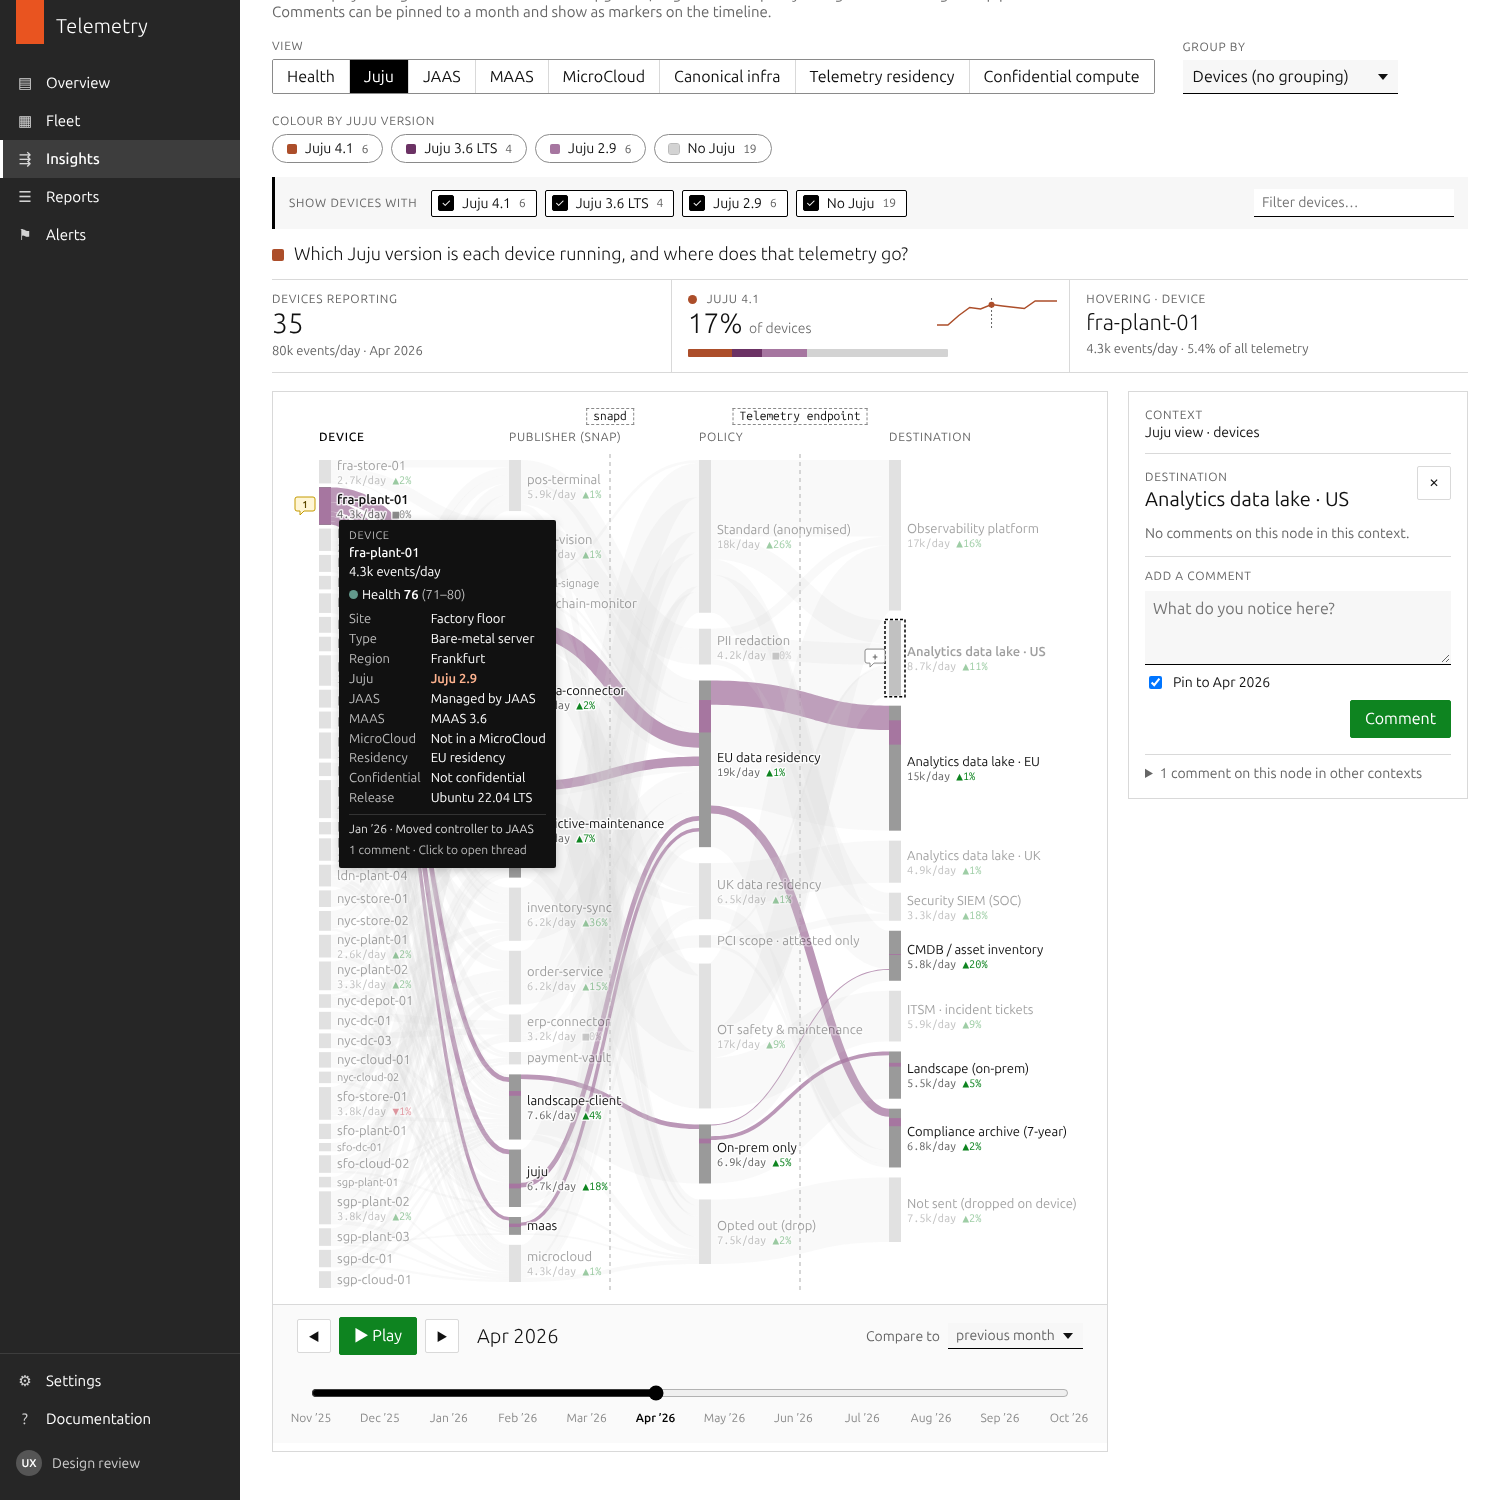
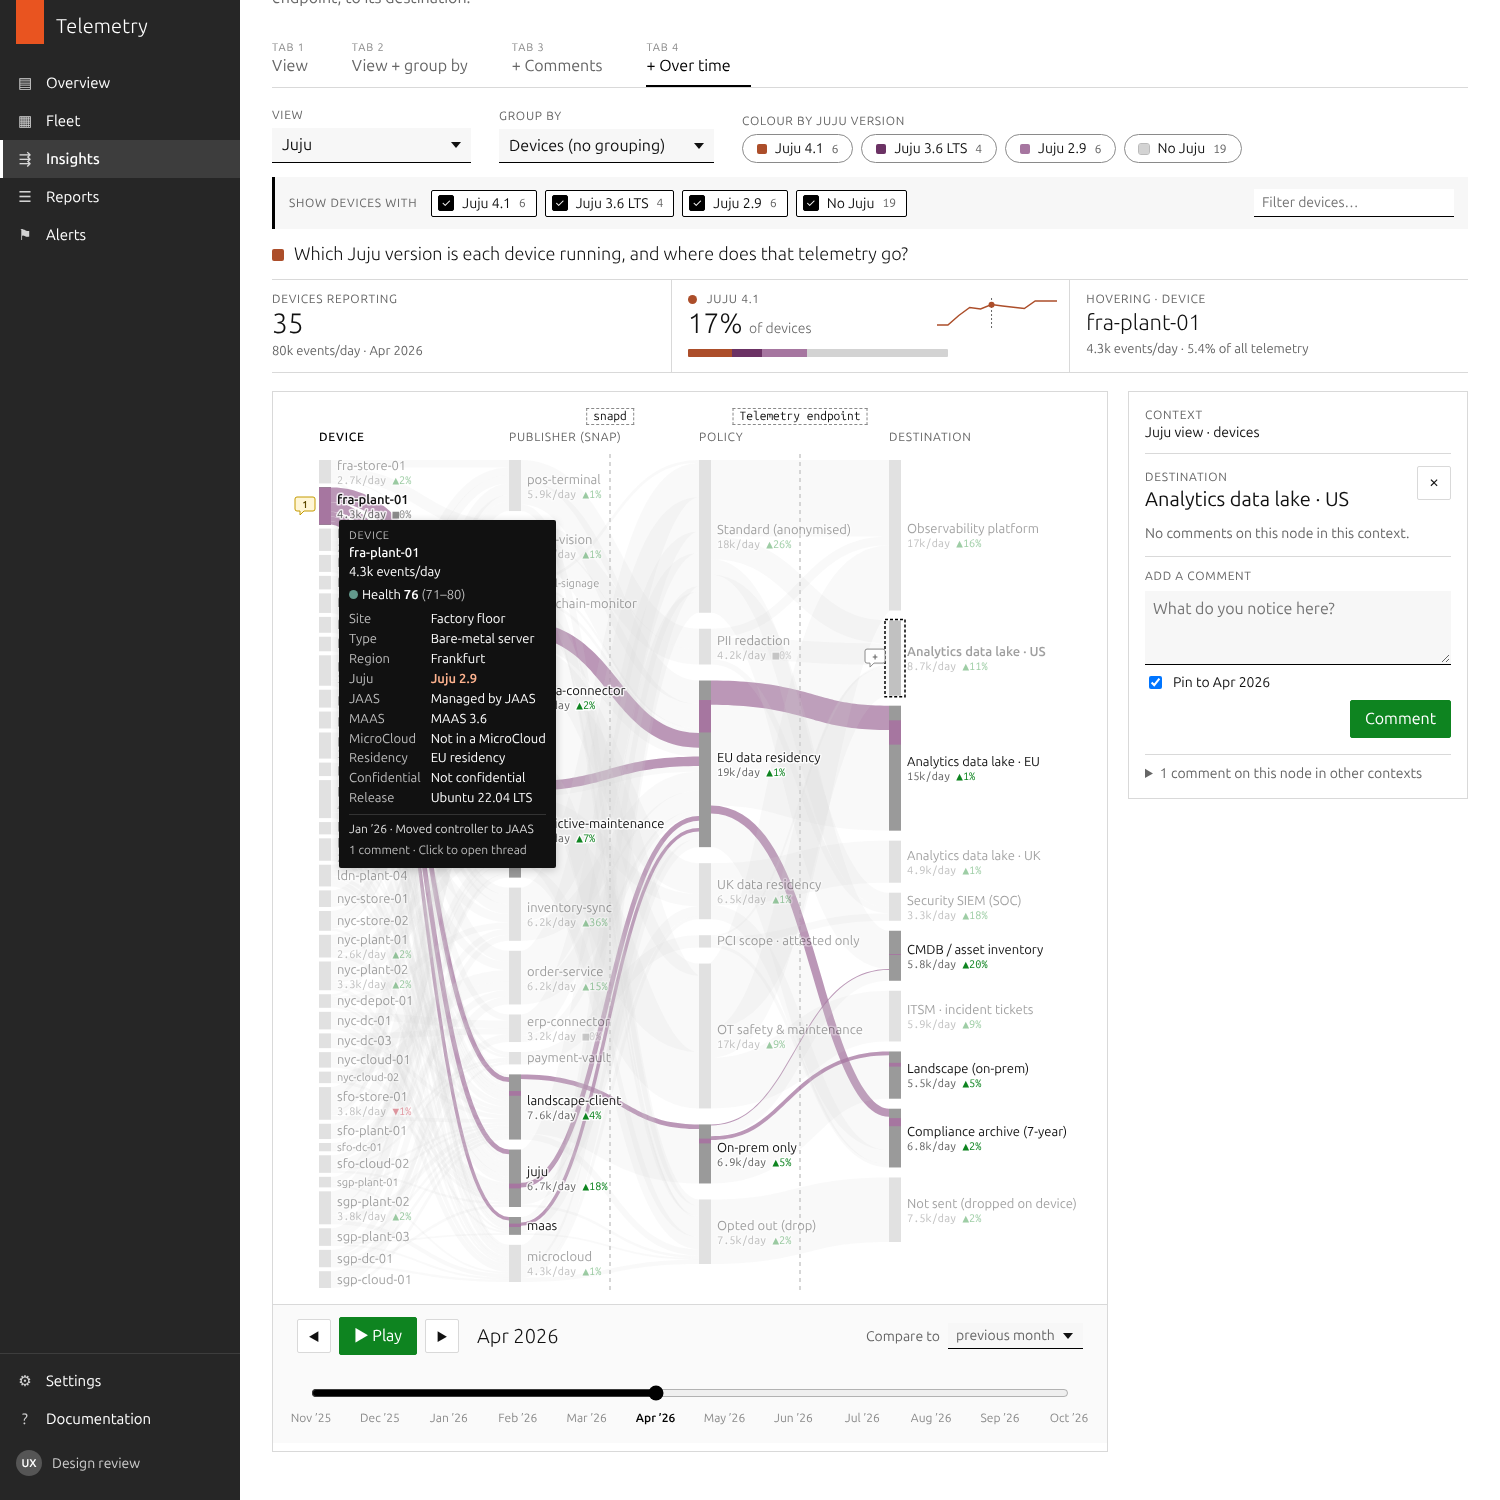
Start on a neutral view and switch views from a grouped dropdown
Removes the synthetic-data note under the header and the per-tab
descriptions. The view selector is now a dropdown (Neutral, Device
health, Telemetry residency, Confidential compute, and a Canonical
infrastructure group with stack, Juju, JAAS, MAAS, MicroCloud) and
starts on Neutral, where every flow is a single colour, colour chips
are hidden and the KPI summarises the pipeline instead.

Claude-Session: https://claude.ai/code/session_0156BKrAD5wHGfcWHmuamSMf

diff --git a/js/app.js b/js/app.js
@@ -12,20 +12,16 @@
   const LAST = TL.MONTHS.length - 1;
 
   const TABS = [
-    { id: 1, label: 'View', groupBy: false, comments: false, time: false,
-      intro: 'Each snap on a device publishes telemetry to snapd, which merges it into one stream for the telemetry endpoint; the endpoint applies policy and forwards it to a destination. A view colours every device — and its flows all the way through — by one attribute, e.g. its Juju version. Tap a colour to isolate it; hover or tap any node to trace its path.' },
-    { id: 2, label: 'View + group by', groupBy: true, comments: false, time: false,
-      intro: 'Group by replaces the device column with streams per value (e.g. Juju 4.1 / 3.6 / none). Publisher, policy and destination stay exactly the same. Use the chips to filter streams in or out.' },
-    { id: 3, label: '+ Comments', groupBy: true, comments: true, time: false,
-      intro: 'Comments belong to a node within a view and group-by, so the same node can hold different conversations in different lenses. Click a node to read or add comments.' },
-    { id: 4, label: '+ Over time', groupBy: true, comments: true, time: true,
-      intro: 'Scrub or play through twelve months to watch upgrades, migrations and policy changes move through the pipeline. Comments can be pinned to a month and show as markers on the timeline.' }
+    { id: 1, label: 'View', groupBy: false, comments: false, time: false },
+    { id: 2, label: 'View + group by', groupBy: true, comments: false, time: false },
+    { id: 3, label: '+ Comments', groupBy: true, comments: true, time: false },
+    { id: 4, label: '+ Over time', groupBy: true, comments: true, time: true }
   ];
 
   const state = {
     tab: 1,
-    view: 'juju',
-    groupBy: 'juju',         // used from tab 2; tab 1 always shows devices
+    view: 'neutral',
+    groupBy: 'site',         // used from tab 2; tab 1 always shows devices
     isolate: {},             // { viewId: valueId } — colour only this value
     excluded: {},            // { dim: { valueId: true } }
     query: '',               // device name filter
@@ -35,7 +31,7 @@
 
   const $ = function (id) { return document.getElementById(id); };
   const el = {
-    tabs: $('tabs'), intro: $('tab-intro'), viewSwitch: $('view-switch'), groupby: $('groupby'),
+    tabs: $('tabs'), viewSelect: $('view-select'), hlField: $('hl-field'), groupby: $('groupby'),
     groupbyField: $('groupby-field'), hl: $('hl-switch'), hlLabel: $('lbl-hl'), filter: $('group-filter'), question: $('view-question'),
     kpis: $('kpis'), legend: $('legend'), wrap: $('chart-wrap'), svg: $('sankey'), timeline: $('timeline'),
     comments: $('comments'), tooltip: $('tooltip')
@@ -91,12 +87,20 @@
     }).join('');
   }
   function buildViewSwitch() {
-    el.viewSwitch.innerHTML = TL.VIEWS.map(function (v) {
-      const on = v.id === state.view;
-      return '<button type="button" role="radio" aria-checked="' + on + '" class="p-segmented__item' + (on ? ' is-active' : '') + '" data-view="' + v.id + '">' +
-        esc(v.label) + '</button>';
-    }).join('');
+    // views without a group are top-level options; grouped views nest under an <optgroup>
+    let html = '', open = null;
+    TL.VIEWS.forEach(function (v) {
+      if (v.group !== open) {
+        if (open) html += '</optgroup>';
+        if (v.group) html += '<optgroup label="' + esc(v.group) + '">';
+        open = v.group || null;
+      }
+      html += '<option value="' + v.id + '"' + (v.id === state.view ? ' selected' : '') + '>' + esc(v.label) + '</option>';
+    });
+    if (open) html += '</optgroup>';
+    el.viewSelect.innerHTML = html;
   }
+  function isNeutral() { return view().id === 'neutral'; }
   function buildGroupBy() {
     el.groupby.innerHTML = TL.GROUP_BYS.map(function (g) {
       const label = g === 'device' ? 'Devices (no grouping)' : TL.ATTRIBUTES[g].label;
@@ -106,6 +110,7 @@
   function buildHighlight() {
     const a = attr(), iso = state.isolate[state.view] || null;
     const counts = deviceCounts(periodIndex(), view().attr);
+    el.hlField.hidden = isNeutral();
     el.hlLabel.textContent = 'Colour by ' + a.label.toLowerCase();
     el.hl.innerHTML = a.values.map(function (v) {
       const on = iso === v.id, dimmed = iso && !on;
@@ -128,6 +133,12 @@
     const search = g === 'device'
       ? '<input type="search" class="p-search" id="device-q" placeholder="Filter devices…" value="' + esc(state.query) + '" aria-label="Filter devices by name">'
       : '';
+    if (fd === 'neutral') { // nothing to filter by in the neutral view: devices get the search box only
+      el.filter.innerHTML = '<span class="p-group-filter__label">Devices</span>' + search;
+      const q0 = $('device-q');
+      if (q0) q0.addEventListener('input', function (e) { state.query = e.target.value; render(); });
+      return;
+    }
     el.filter.innerHTML = '<span class="p-group-filter__label">' + (g === 'device' ? 'Show devices with' : 'Show streams') + '</span>' +
       TL.ATTRIBUTES[fd].values.map(function (v) {
         const on = !ex[v.id];
@@ -150,7 +161,6 @@
 
   function draw() {
     const t = tab(), v = view();
-    el.intro.textContent = t.intro;
     el.groupbyField.hidden = !t.groupBy;
     const firstColour = attr().values.filter(function (x) { return x.color; })[0].color;
     el.question.innerHTML = '<span class="p-question__swatch" style="background:' + firstColour + '"></span>' + esc(v.question);
@@ -229,7 +239,13 @@
       return '<span class="p-dist__seg" style="flex:' + c + ';background:' + (v.color || '#d3d3d3') + '" title="' + esc(v.label) + ': ' + c + '"></span>';
     }).join('');
     const iso = state.isolate[state.view];
-    if (view().attr === 'health' && !iso) {
+    if (isNeutral()) {
+      // no breakdown to report: summarise the pipeline instead
+      const pubs = {}, dests = {};
+      Object.keys(agg.nodes).forEach(function (k) { const n = agg.nodes[k]; if (n.dim === 'publisher') pubs[k] = 1; if (n.dim === 'destination') dests[k] = 1; });
+      items.push(kpi('Pipeline', Object.keys(pubs).length + ' <span class="p-kpi__unit">snaps → </span>' + Object.keys(dests).length + ' <span class="p-kpi__unit">destinations</span>',
+        'Pick a view to colour flows by an attribute'));
+    } else if (view().attr === 'health' && !iso) {
       // health is a score: show the fleet average and its trend
       const avg = avgHealth(pi);
       const band = TL.valueOf('health', bandOf(avg));
@@ -507,10 +523,9 @@
     const n = (state.tab - 1 + (e.key === 'ArrowRight' ? 1 : TABS.length - 1)) % TABS.length + 1;
     setTab(n); $('tab-' + n).focus();
   });
-  el.viewSwitch.addEventListener('click', function (e) {
-    const b = e.target.closest('[data-view]'); if (!b) return;
+  el.viewSelect.addEventListener('change', function (e) {
     const prevAttr = view().attr;
-    state.view = b.dataset.view;
+    state.view = e.target.value;
     // keep group-by linked to the view unless the user chose something else
     if (state.groupBy === prevAttr) state.groupBy = view().attr;
     state.hover = null; clearColumn1Selection();

diff --git a/js/data.js b/js/data.js
@@ -136,6 +136,8 @@ window.TL = window.TL || {};
     const lo = i === 0 ? 0 : i * 10 + 1, hi = (i + 1) * 10;
     return { id: lo + '-' + hi, label: lo + '–' + hi, color: c, lo: lo, hi: hi };
   }).reverse(); // healthiest first
+  // Neutral view: every flow in one colour (palette slate), no breakdown.
+  ATTRIBUTES.neutral = { label: 'Neutral', short: 'Neutral', values: [{ id: 'all', label: 'All telemetry', color: '#4C6E87' }] };
   ATTRIBUTES.health = { label: 'Health', short: 'Health', ordinal: true, values: HEALTH_BANDS };
   function healthBand(score) { return score <= 10 ? '0-10' : (Math.floor((score - 1) / 10) * 10 + 1) + '-' + (Math.floor((score - 1) / 10) * 10 + 10); }
 
@@ -341,6 +343,7 @@ window.TL = window.TL || {};
     const a = Object.assign({}, d.attrs);
     d.changes.forEach(function (c) { if (c.month <= m) Object.assign(a, c.attrs); });
     a.stack = deriveStack(a);
+    a.neutral = 'all';
     const h = healthAt(d, a, m);
     a.healthScore = h.score; a.healthParts = h.parts; a.health = healthBand(h.score);
     return a;
@@ -416,15 +419,17 @@ window.TL = window.TL || {};
 
   // ---- Views & group-bys ----------------------------------------------
   // A view = one attribute to colour by + the question it answers.
+  // `group` nests a view under a heading in the view selector.
   const VIEWS = [
-    { id: 'health', attr: 'health', label: 'Health', question: 'How healthy is each device, and where does telemetry from unhealthy devices go?' },
-    { id: 'juju', attr: 'juju', label: 'Juju', question: 'Which Juju version is each device running, and where does that telemetry go?' },
-    { id: 'jaas', attr: 'jaas', label: 'JAAS', question: 'Which devices are managed through JAAS versus self-hosted controllers?' },
-    { id: 'maas', attr: 'maas', label: 'MAAS', question: 'Which devices are provisioned by MAAS, and on which version?' },
-    { id: 'microcloud', attr: 'microcloud', label: 'MicroCloud', question: 'Which devices belong to a MicroCloud cluster?' },
-    { id: 'stack', attr: 'stack', label: 'Canonical infra', question: 'How much of the fleet runs on a full Canonical stack (MAAS / MicroCloud + Juju)?' },
+    { id: 'neutral', attr: 'neutral', label: 'Neutral', question: 'Where does each device’s telemetry go, and under which policy?' },
+    { id: 'health', attr: 'health', label: 'Device health', question: 'How healthy is each device, and where does telemetry from unhealthy devices go?' },
     { id: 'sovereignty', attr: 'sovereignty', label: 'Telemetry residency', question: 'Which residency rule does each device’s telemetry follow, and where does it end up?' },
-    { id: 'confidential', attr: 'confidential', label: 'Confidential compute', question: 'Which devices run confidential VMs, and where does their payment telemetry go?' }
+    { id: 'confidential', attr: 'confidential', label: 'Confidential compute', question: 'Which devices run confidential VMs, and where does their payment telemetry go?' },
+    { id: 'stack', attr: 'stack', label: 'Full / partial stack', group: 'Canonical infrastructure', question: 'How much of the fleet runs on a full Canonical stack (MAAS / MicroCloud + Juju)?' },
+    { id: 'juju', attr: 'juju', label: 'Juju', group: 'Canonical infrastructure', question: 'Which Juju version is each device running, and where does that telemetry go?' },
+    { id: 'jaas', attr: 'jaas', label: 'JAAS', group: 'Canonical infrastructure', question: 'Which devices are managed through JAAS versus self-hosted controllers?' },
+    { id: 'maas', attr: 'maas', label: 'MAAS', group: 'Canonical infrastructure', question: 'Which devices are provisioned by MAAS, and on which version?' },
+    { id: 'microcloud', attr: 'microcloud', label: 'MicroCloud', group: 'Canonical infrastructure', question: 'Which devices belong to a MicroCloud cluster?' },
   ];
   const GROUP_BYS = ['device', 'health', 'site', 'juju', 'jaas', 'maas', 'microcloud', 'stack', 'sovereignty', 'confidential', 'type', 'region', 'release'];
 

diff --git a/index.html b/index.html
@@ -47,7 +47,7 @@
       <div>
         <div class="p-breadcrumb">Telemetry / <strong>Insights</strong></div>
         <h1 class="p-heading">Insights</h1>
-        <p class="p-subtitle">How telemetry flows from each device’s snaps, through snapd and the telemetry endpoint, to its destination. Synthetic demo data.</p>
+        <p class="p-subtitle">How telemetry flows from each device’s snaps, through snapd and the telemetry endpoint, to its destination.</p>
       </div>
       <div class="p-page-header__actions">
         <button class="p-button" id="reset-demo" type="button">Reset demo comments</button>
@@ -55,20 +55,19 @@
     </header>
 
     <div class="p-tabs" role="tablist" aria-label="Demo stages" id="tabs"></div>
-    <p class="p-tab-intro" id="tab-intro"></p>
 
     <section class="insights" id="insights" aria-live="polite">
       <!-- Controls -->
       <div class="p-toolbar" id="toolbar">
         <div class="p-field">
-          <span class="p-field__label" id="lbl-view">View</span>
-          <div class="p-segmented" role="radiogroup" aria-labelledby="lbl-view" id="view-switch"></div>
+          <label class="p-field__label" for="view-select">View</label>
+          <select id="view-select" class="p-select"></select>
         </div>
         <div class="p-field" id="groupby-field">
           <label class="p-field__label" for="groupby">Group by</label>
           <select id="groupby" class="p-select"></select>
         </div>
-        <div class="p-field p-field--grow">
+        <div class="p-field p-field--grow" id="hl-field">
           <span class="p-field__label" id="lbl-hl">Colour by</span>
           <div class="p-chips" role="radiogroup" aria-labelledby="lbl-hl" id="hl-switch"></div>
         </div>

diff --git a/css/app.css b/css/app.css
@@ -73,10 +73,9 @@ button, input, select, textarea { font: inherit; color: inherit; }
 .p-tabs__item[aria-selected="true"]::after { content: ""; position: absolute; left: 0; right: 0; bottom: -1px; height: 3px; background: var(--ink); }
 .p-tabs__item:hover { color: var(--ink); }
 .p-tabs__num { display: block; font-size: .6875rem; text-transform: uppercase; letter-spacing: .08em; color: var(--faint); margin-bottom: 2px; }
-.p-tab-intro { color: var(--muted); font-size: .9375rem; margin: 14px 0 18px; max-width: 95ch; }
 
 /* Toolbar */
-.p-toolbar { display: flex; flex-wrap: wrap; gap: 20px 28px; align-items: flex-end; padding-bottom: 14px; }
+.p-toolbar { margin-top: 20px; display: flex; flex-wrap: wrap; gap: 20px 28px; align-items: flex-end; padding-bottom: 14px; }
 .p-field { display: flex; flex-direction: column; gap: 6px; }
 .p-field[hidden] { display: none; }
 .p-field--grow { flex: 1 1 320px; }
@@ -230,7 +229,6 @@ body[data-tab="3"] .insights__body, body[data-tab="4"] .insights__body { grid-te
   .p-heading { font-size: 1.75rem; }
   .p-subtitle { font-size: .9375rem; }
   .p-tabs__item { margin-right: 16px; padding-right: 8px; }
-  .p-tab-intro { font-size: .875rem; }
   /* controls */
   .p-toolbar { gap: 14px; }
   .p-toolbar > .p-field { width: 100%; }

diff --git a/README.md b/README.md
@@ -79,17 +79,21 @@ The intermediate steps were interpolated in OKLCH. Lightness mirrors either side
 
 ## Views
 
+The view selector is a dropdown. It starts on **Neutral**, where every flow is one colour (palette slate) with no breakdown.
+
 | View | Colours devices by | Values |
 |---|---|---|
-| Juju | Juju version | 4.1 · 3.6 LTS · 2.9 · none |
-| JAAS | Juju controller | JAAS · self-hosted · none |
-| MAAS | MAAS version | 3.6 · 3.5 · none |
-| MicroCloud | MicroCloud membership | member · none |
-| Canonical infra | Derived stack | full (Juju + MAAS/MicroCloud) · partial · none |
+| Neutral | Nothing (one colour) | All telemetry |
+| Device health | Health band | 0–10 … 91–100 |
 | Telemetry residency | Residency rule the device's telemetry follows | EU · UK · none |
-| Confidential compute | CC hardware | Intel TDX · AMD SEV-SNP · none |
+| Confidential compute | Confidential-computing hardware | Intel TDX · AMD SEV-SNP · none |
+| *Canonical infrastructure:* Full / partial stack | Derived stack | full (Juju + MAAS/MicroCloud) · partial · none |
+| *Canonical infrastructure:* Juju | Juju version | 4.1 · 3.6 LTS · 2.9 · none |
+| *Canonical infrastructure:* JAAS | Juju controller | JAAS · self-hosted · none |
+| *Canonical infrastructure:* MAAS | MAAS version | 3.6 · 3.5 · none |
+| *Canonical infrastructure:* MicroCloud | MicroCloud membership | member · none |
 
-Group-by can use any of these attributes, plus device type, region and Ubuntu release.
+Group-by can use any of these attributes, plus site, device type, region and Ubuntu release.
 
 ## Data structure (`js/data.js`)
 

diff --git a/CLAUDE.md b/CLAUDE.md
@@ -22,6 +22,8 @@ Prototype of the **Insights** page (Telemetry product): a Sankey shown as four d
 ## Sankey rules agreed with the user
 - Columns are fixed: **Device → Publisher → Policy → Destination**. Only column 1 changes.
 - A **view** colours devices (and their flows end to end) by one attribute, e.g. Juju version. Views never change columns.
+- View selector is a dropdown starting on **Neutral** (one flow colour): Neutral · Device health · Telemetry residency · Confidential compute · Canonical infrastructure ▸ (Full/partial stack, Juju, JAAS, MAAS, MicroCloud).
+- No tab descriptions and no "synthetic data" note under the page header.
 - **Group by** replaces the device column with that attribute's values (e.g. Juju 4.1 / 3.6 / none); publisher, policy and destination stay intact.
 - Tabs: 1 view · 2 + group by · 3 + comments · 4 + over time.
 - Columns top-aligned (top stream horizontal, others rise into it); flows fairly transparent.
